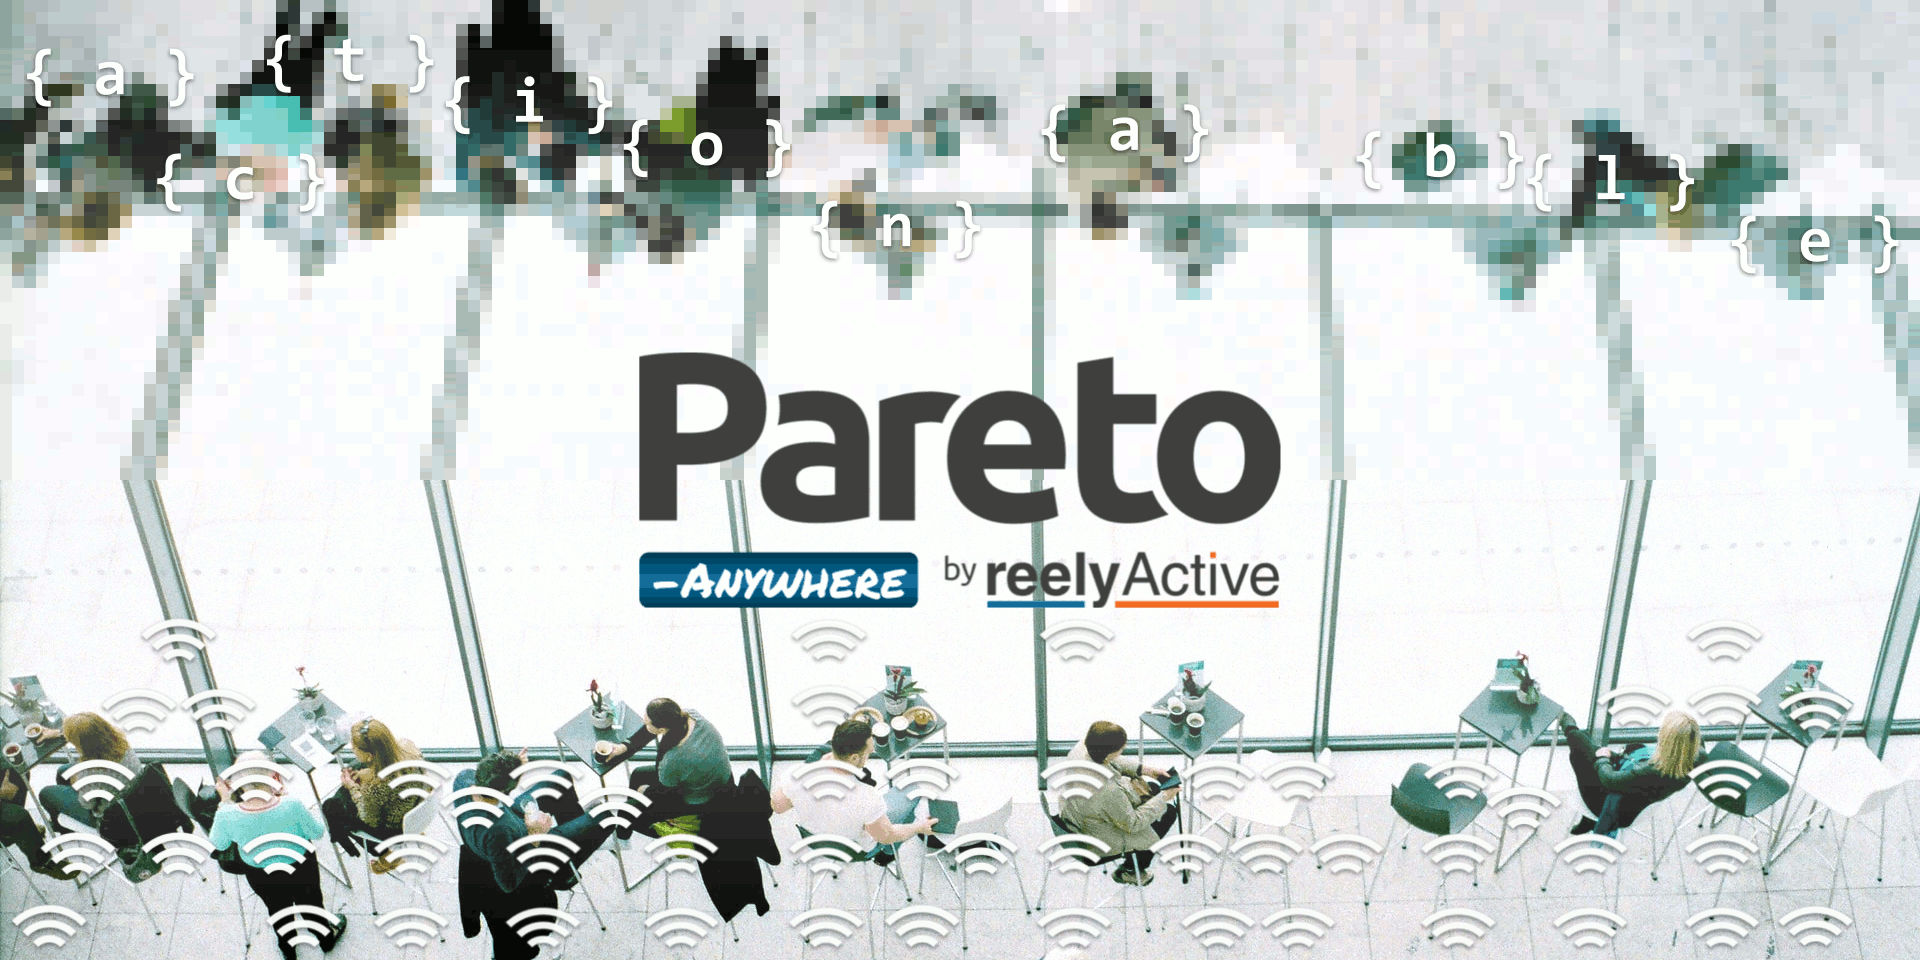
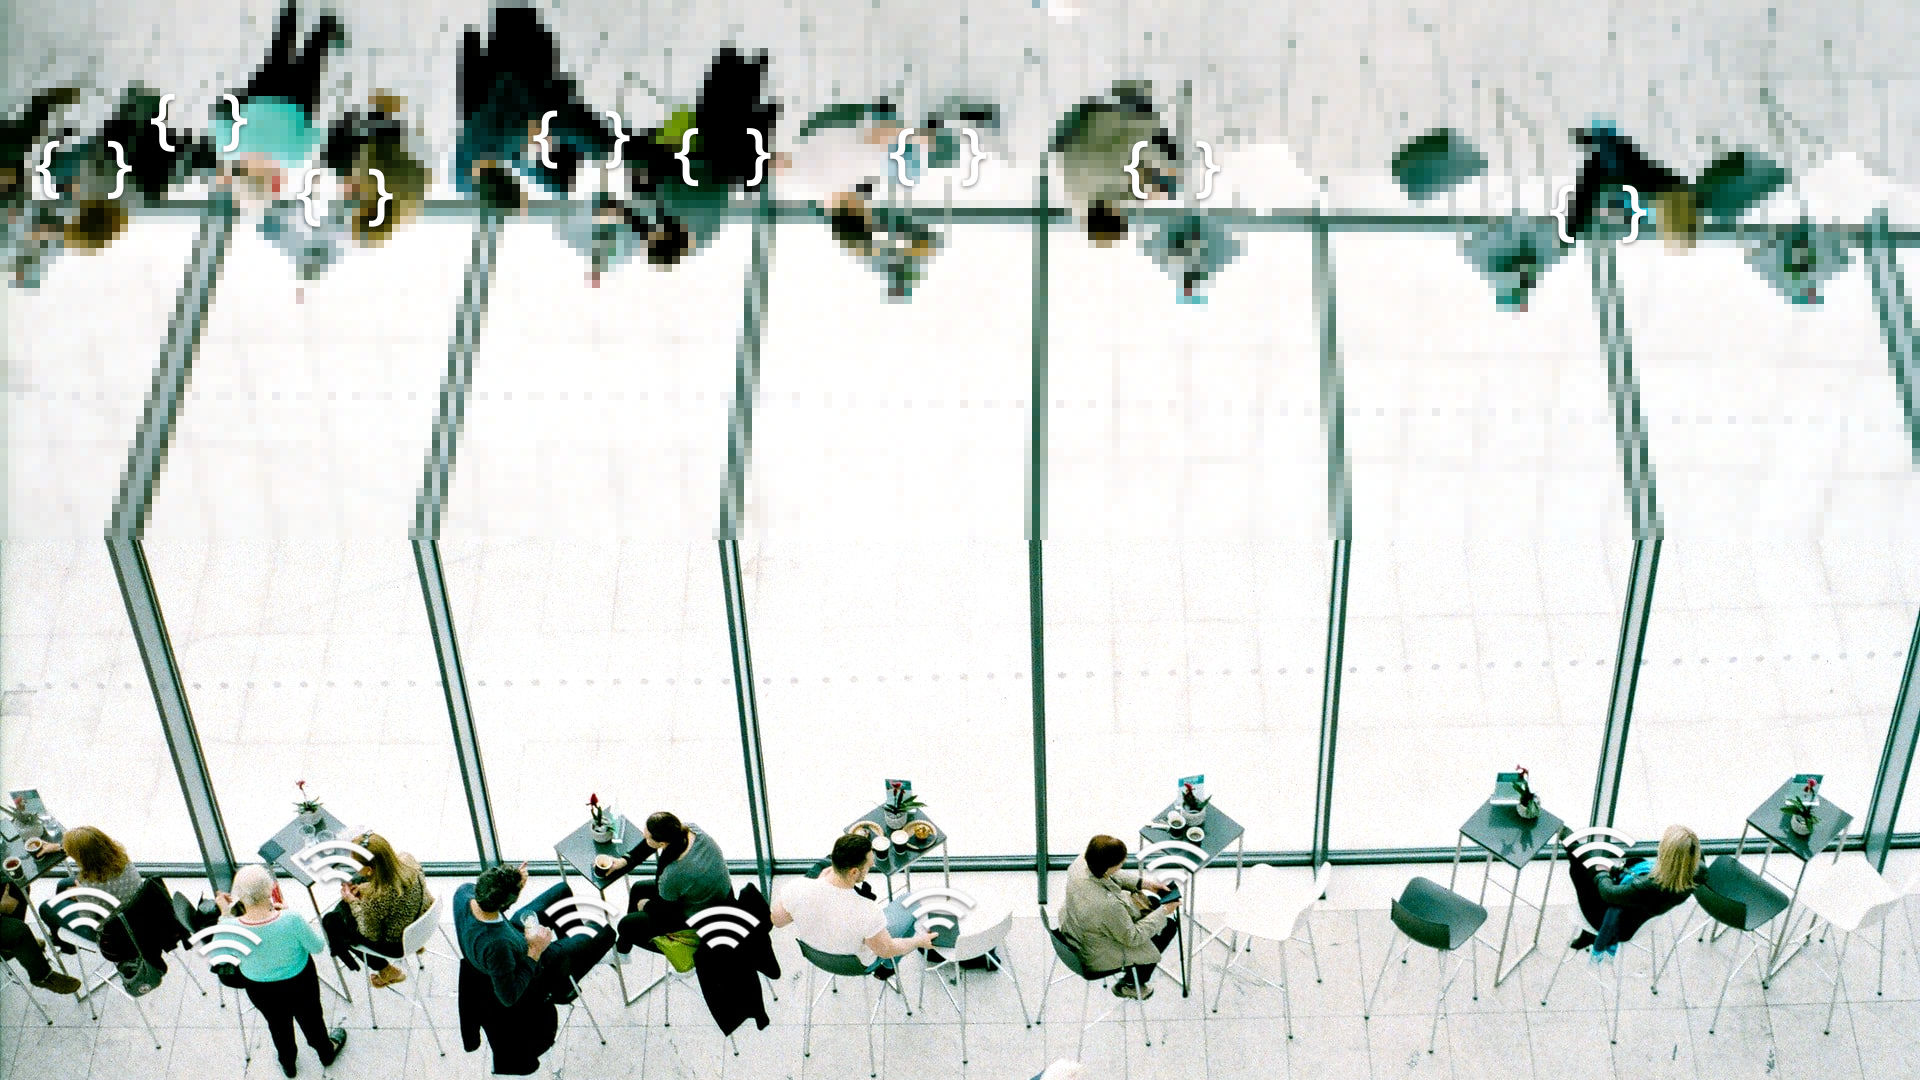
Standardised hero style

diff --git a/index.html b/index.html
@@ -118,7 +118,10 @@
     </nav>
 
     <!----- Hero ----->
-    <div id="hero">
+    <div class="hero hero-landing">
+      <div class="hero-content">
+        <img src="images/pareto-anywhere-logo-white.png" class="img-fluid"></img>
+      </div>
     </div>
 
     <div class="container-fluid">
@@ -498,9 +501,11 @@
           </div>
         </div>
       </div>
+    </div>
 
-      <!----- CTA ----->
-      <div class="row justify-content-center bg-reelyblack text-white py-4">
+    <!----- CTA ----->
+    <div class="cta hero-landing container-fluid">
+      <div class="row justify-content-center bg-dark-50 text-white py-4">
         <div class="col-sm-12 col-md-10 col-xl-8 text-center my-4">
           <h1> Our call to actionable </h1>
           <p class="lead mb-4"> Embrace the ambient data in <em>your</em> space. </p>

diff --git a/style/getpareto.css b/style/getpareto.css
@@ -112,21 +112,16 @@ a {
   background-color: #0770a2;
 }
 
+.hero-landing {
+  background-image: url('/images/pareto-anywhere-hero.jpg');
+}
+
 .hero-occupancy-analytics {
   background-image: url('/images/use-case-occupancy-analytics-hero.jpg');
 }
 
 .hero-asset-tracking {
   background-image: url('/images/use-case-asset-tracking-hero.jpg');
-}
-
-#hero {
-  background: url("../images/pareto-anywhere-hero.jpg") no-repeat center center;
-  -webkit-background-size: 100% 100%;
-  -moz-background-size: 100% 100%;
-  -o-background-size: 100% 100%;
-  background-size: 100% 100%;
-  min-height: 50vw;
 }
 
 .hero {
